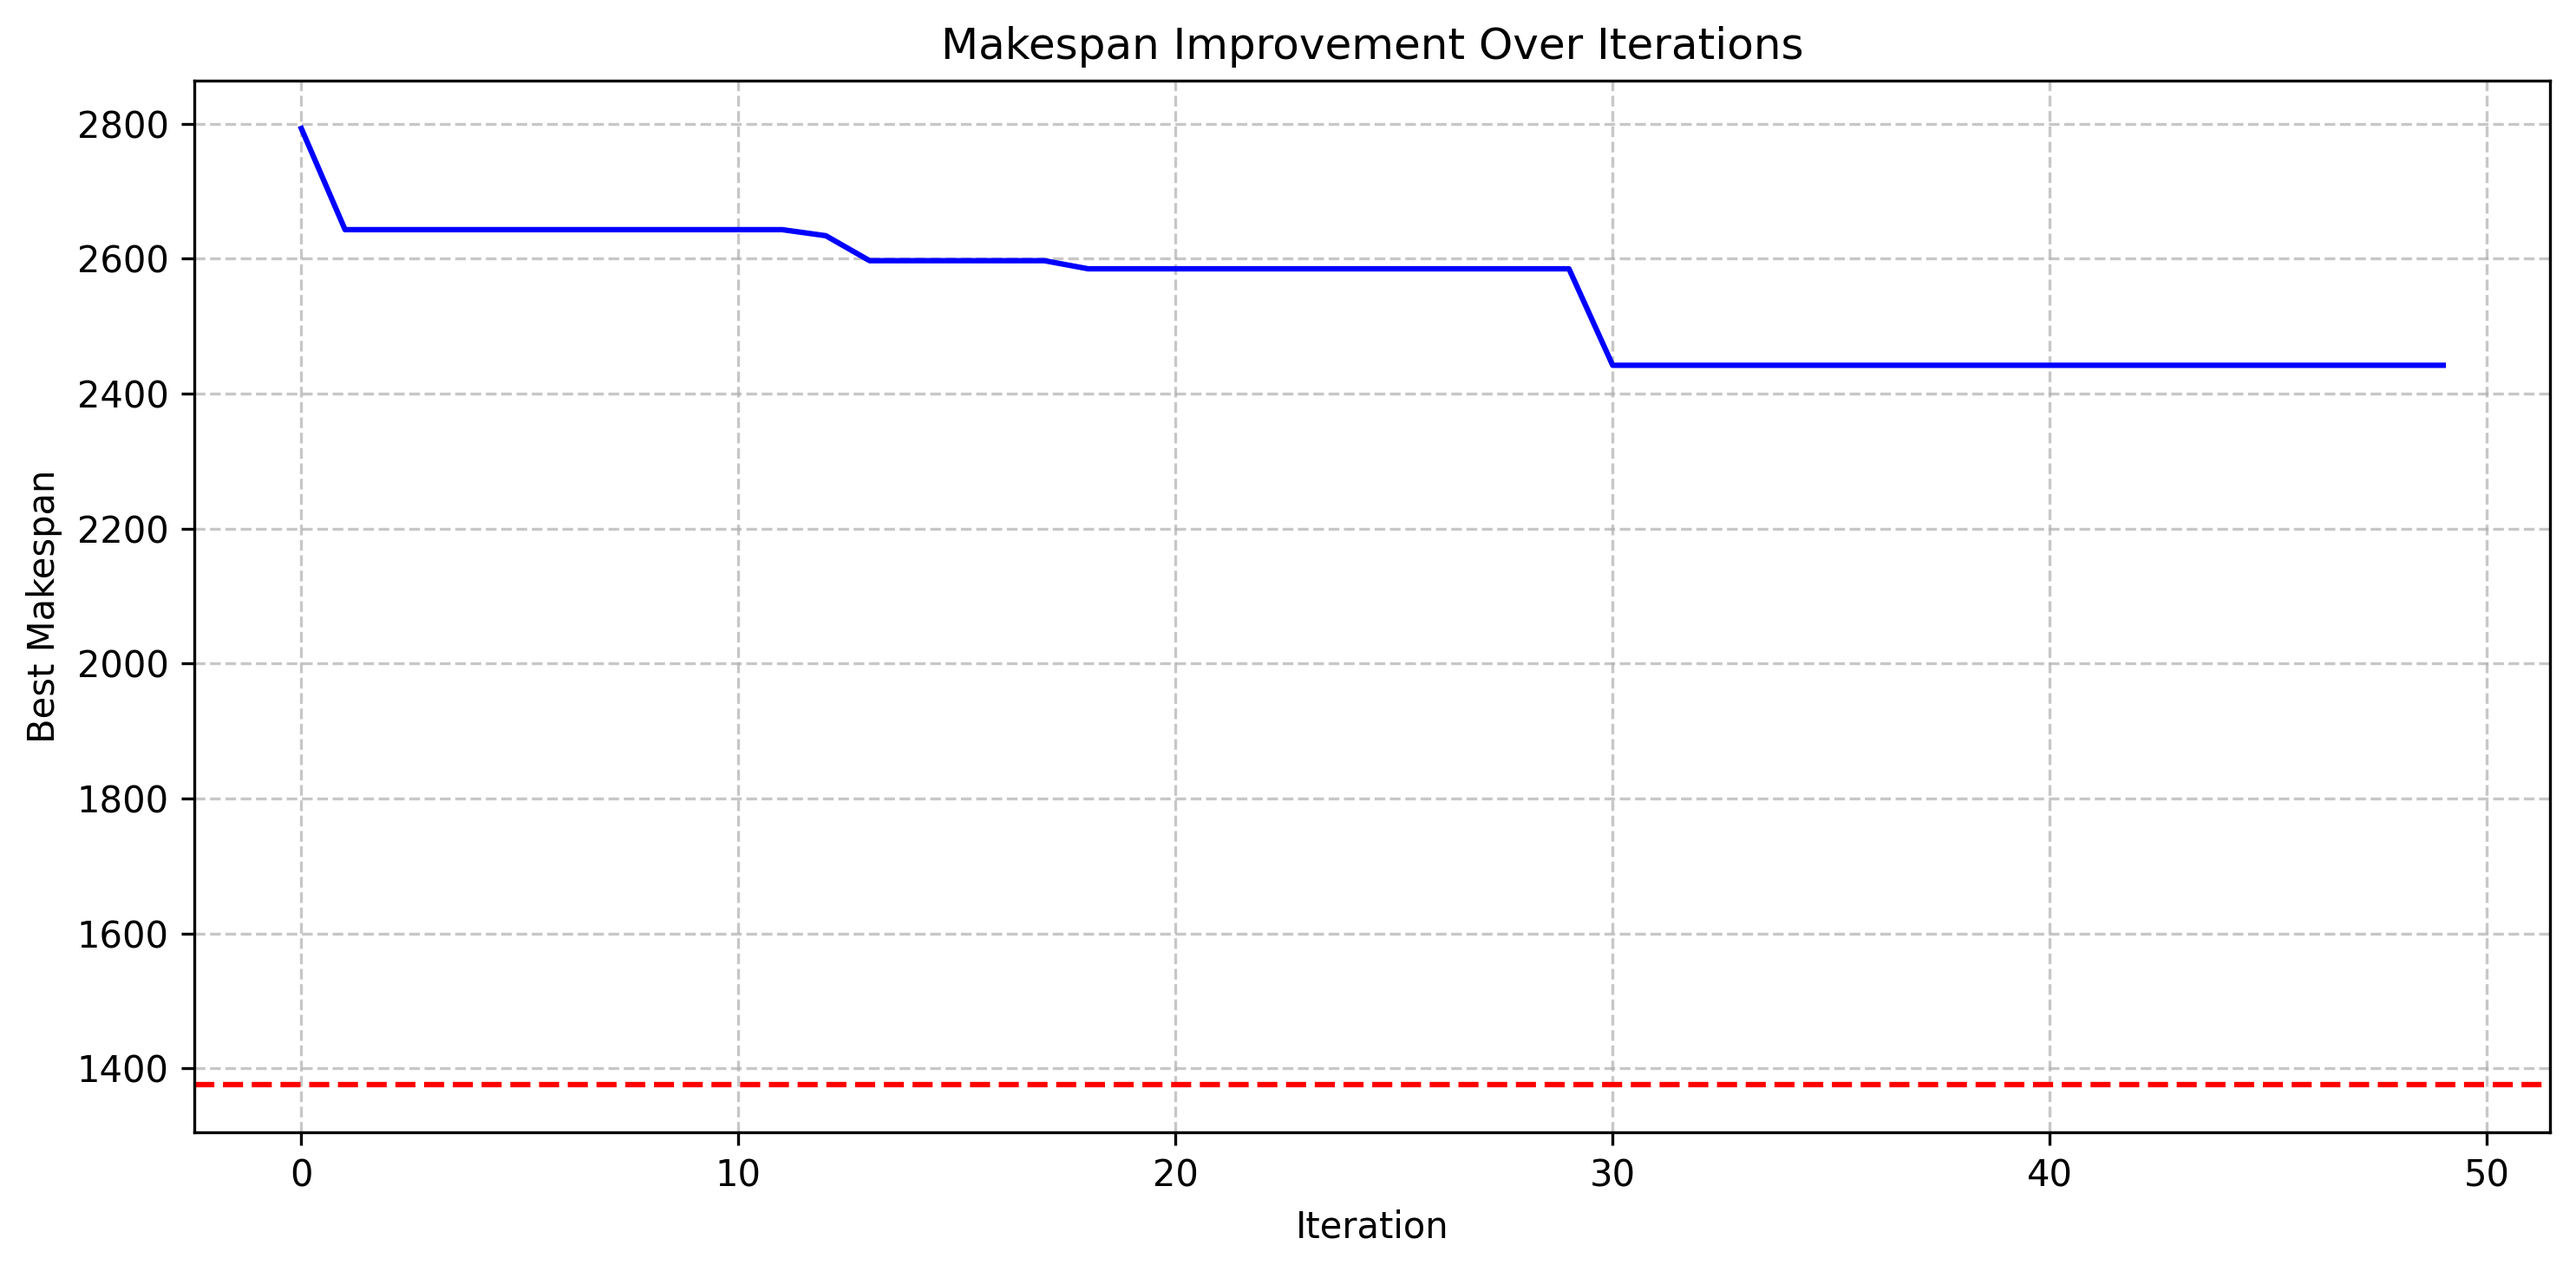
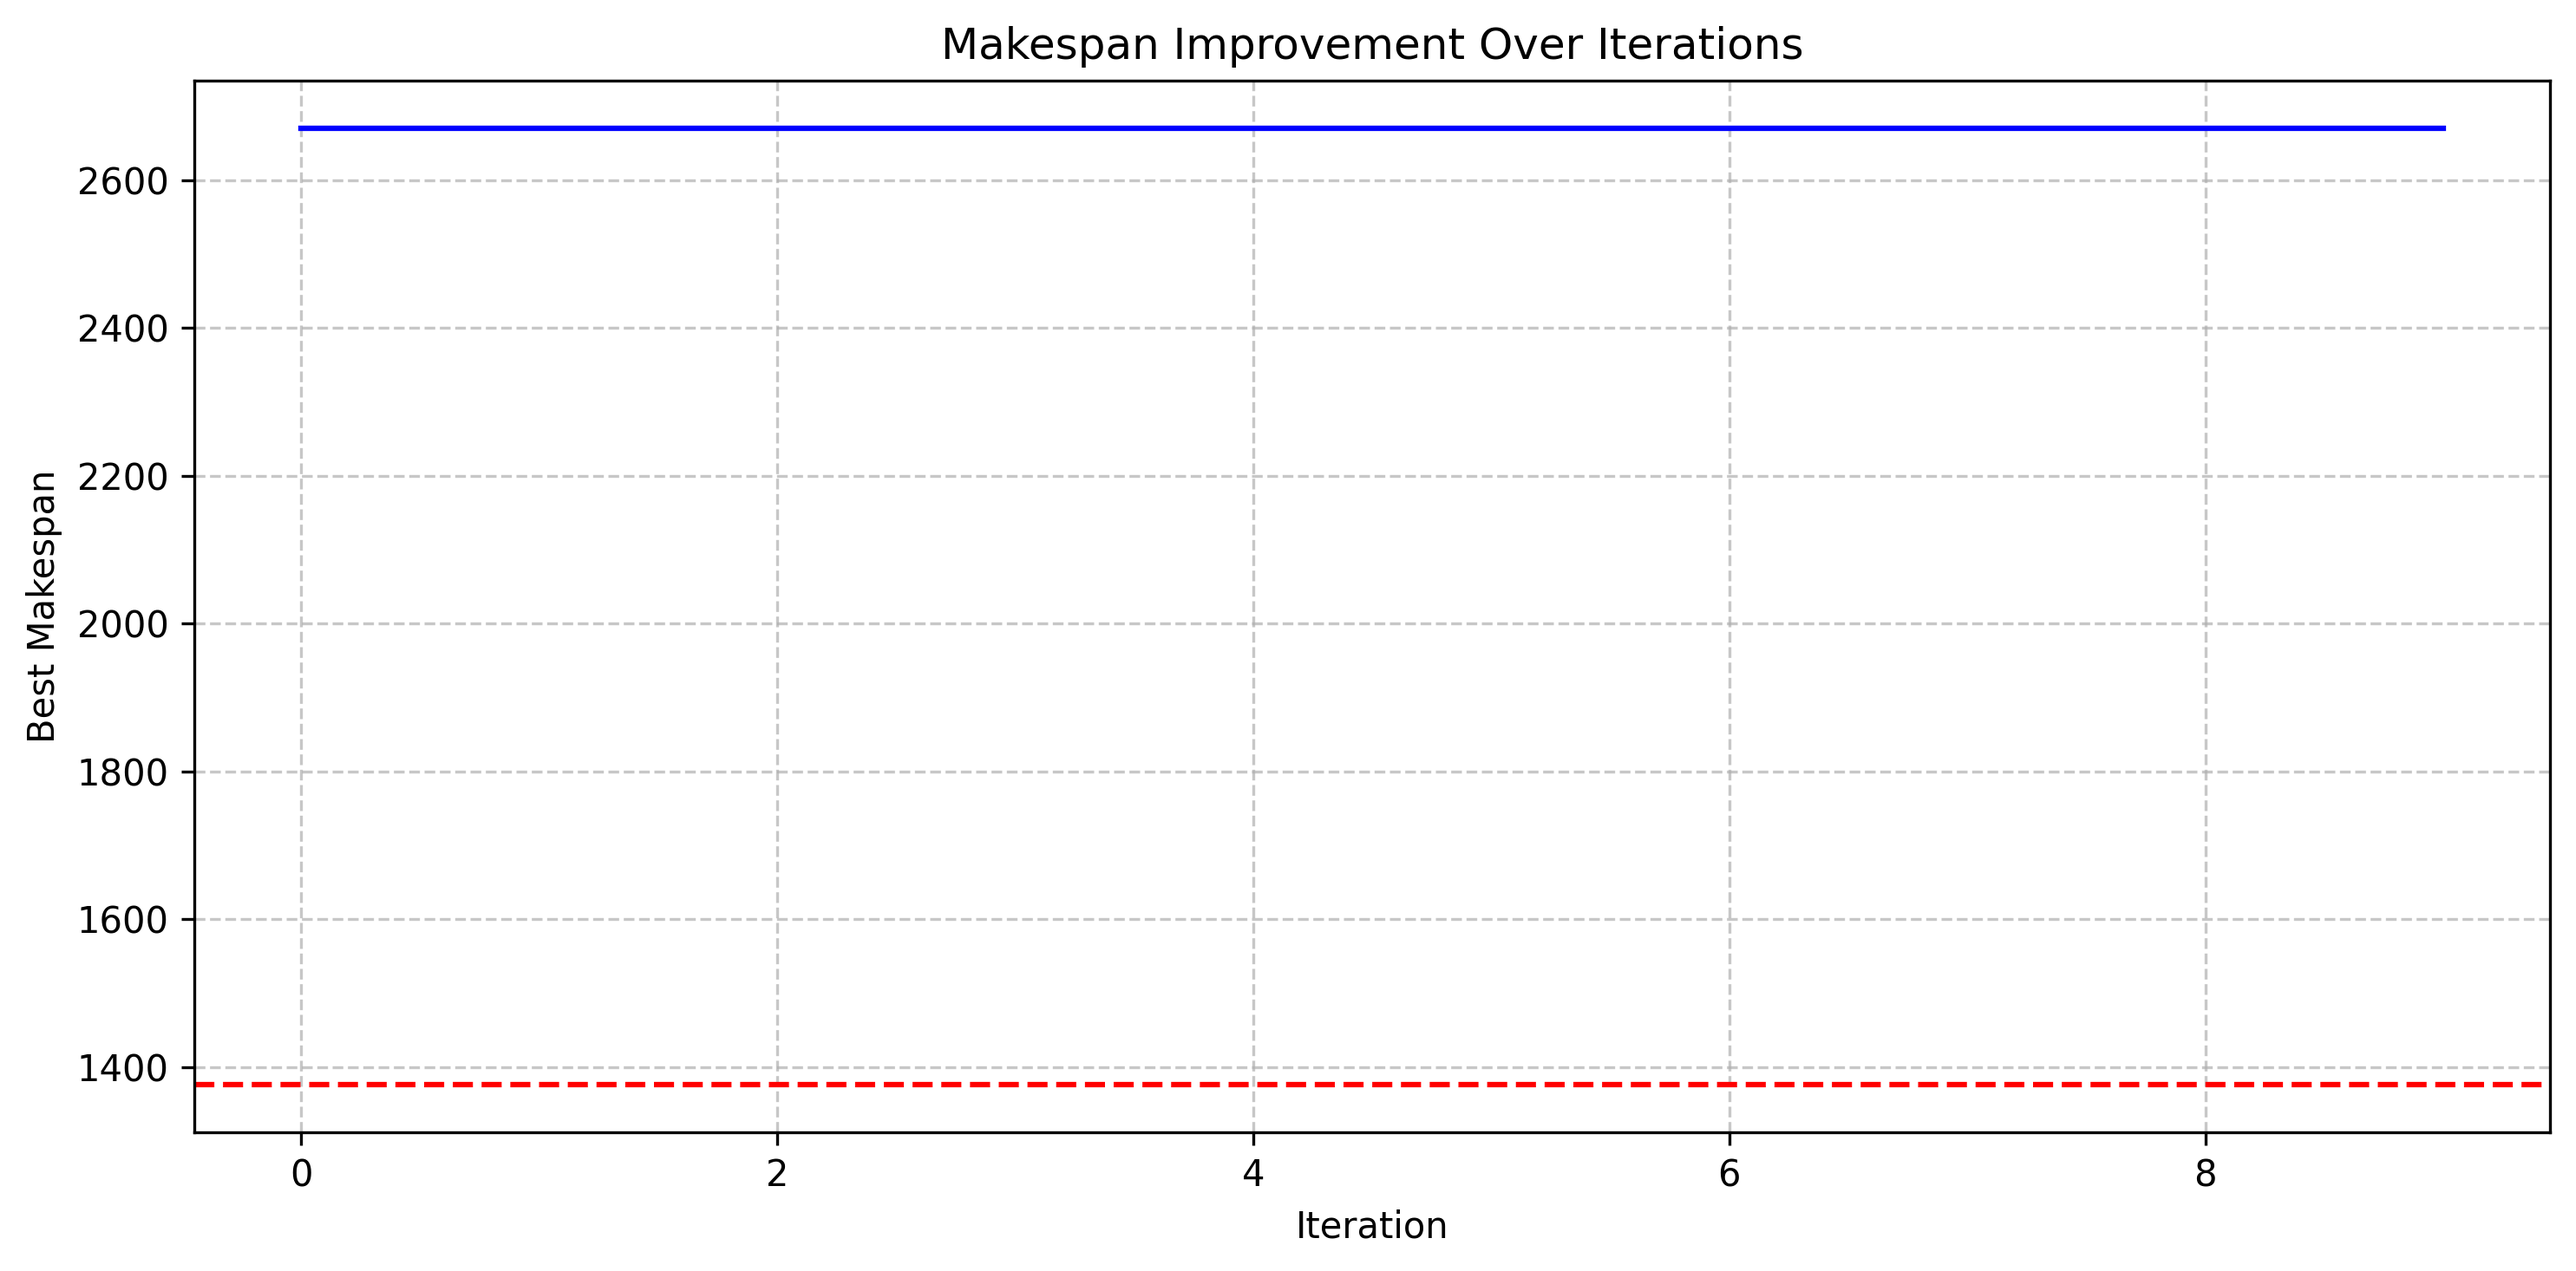
Revert "Merge pull request #4 from sarahmoussaoui/sarah-pso2"
This reverts commit 7d684a052f7f1f270f44c3de4cbd4628f6d3a3c0, reversing
changes made to 23d19f1c818fe59d13bb822f7a5d2b6ab3aef024.

diff --git a/src/modules/pso.py b/src/modules/pso.py
@@ -13,7 +13,7 @@ class PSOOptimizer:
         self.iteration_history = []
         self.makespan_history = []
 
-    def generate_random_initial_sequence(self) -> List[Tuple[int, int]]:
+    def generate_initial_sequence(self) -> List[Tuple[int, int]]:
         """Generates a valid initial sequence preserving operation order within jobs."""
 
         remaining_ops = deepcopy(self.jssp.job_machine_dict)
@@ -27,42 +27,6 @@ class PSOOptimizer:
             sequence.append((job, op_idx))
 
         return sequence
-    
-
-    def generate_spt_initial_sequence(self) -> List[Tuple[int, int]]:
-        """ Generates an initial sequence using Shortest Processing Time (SPT) rule.
-        Prioritizes operations with the shortest processing times while preserving job operation order.
-        """
-        
-        # Create a list of all operations with their job, op index, and processing time
-        all_ops = []
-        for job_idx in self.jssp.job_machine_dict:
-            for op_idx in range(len(self.jssp.job_machine_dict[job_idx])):
-                processing_time = self.jssp.times_matrix[job_idx][op_idx]
-                all_ops.append((job_idx, op_idx, processing_time))
-        
-        # Sort operations by processing time (shortest first)
-        all_ops.sort(key=lambda x: x[2])
-        
-        # Initialize tracking of next operation needed for each job
-        next_op_for_job = {job_idx: 0 for job_idx in self.jssp.job_machine_dict}
-        sequence = []
-        
-        # Build the sequence while respecting operation order within jobs
-        for job_idx, op_idx, _ in all_ops:
-            # Only add if it's the next required operation for its job
-            if op_idx == next_op_for_job[job_idx]:
-                sequence.append((job_idx, op_idx))
-                next_op_for_job[job_idx] += 1
-        
-        # Add any remaining operations that couldn't be added in SPT order
-        # (due to operation ordering constraints)
-        for job_idx in next_op_for_job:
-            while next_op_for_job[job_idx] < len(self.jssp.job_machine_dict[job_idx]):
-                sequence.append((job_idx, next_op_for_job[job_idx]))
-                next_op_for_job[job_idx] += 1
-        
-        return sequence
 
     def optimize(
         self,
@@ -71,20 +35,15 @@ class PSOOptimizer:
         w: float = 0.7,
         c1: float = 1.5,
         c2: float = 1.5,
-        use_spt=False
     ):
         """Run the PSO optimization."""
         particles = []
         global_best_position = None
         global_best_fitness = float("inf")
 
-        for _ in range(num_particles):
-            if use_spt and _ == 0:  # Use SPT for the first particle
-                sequence = self.generate_spt_initial_sequence()
-            else:
-                sequence = self.generate_random_initial_sequence()
+        for _ in range(num_particles): # Creates swarm with random valid sequences
+            sequence = self.generate_initial_sequence()
             particles.append(Particle(sequence, self.jssp.job_machine_dict))
-
 
         for iteration in range(max_iter):
             # Evaluation phase

diff --git a/main.py b/main.py
@@ -2,9 +2,12 @@ import os
 from src.modules.jsspProcessor import JSSPProcessor
 
 if __name__ == "__main__":
+    dataset_folder = "./src/data/processed/data_20j_15m"
 
-    dataset_path = "./src/data/processed/data_20j_15m/data_20j_15m_1.txt"  # Replace with your dataset path
-    processor = JSSPProcessor(dataset_path)
-    best_schedule, best_makespan, exec_time = processor.run(
-        num_particles=10, max_iter=50, w=0.7, c1=2.0, c2=1.0, use_spt=True
-     )
+    for filename in os.listdir(dataset_folder):
+        if filename.endswith(".txt"):
+            dataset_path = os.path.join(dataset_folder, filename)
+            processor = JSSPProcessor(dataset_path)
+            best_schedule, best_makespan, exec_time = processor.run(
+                num_particles=100, max_iter=200, w=0.9, c1=0.7, c2=2
+            )

diff --git a/dfs_amelioré.py b/dfs_amelioré.py
@@ -1,7 +1,7 @@
 import numpy as np  
 from copy import deepcopy  
 import time 
-from src.modules.modelisation import Operation, Job, JSSP  
+from modelisation import Operation, Job, JSSP  
 
 class JSSPSolverDFS:
     def __init__(self, jssp_instance):

diff --git a/src/modules/jsspProcessor.py b/src/modules/jsspProcessor.py
@@ -27,7 +27,6 @@ class JSSPProcessor:
         w: float = 0.7,
         c1: float = 1.5,
         c2: float = 1.5,
-        use_spt: bool = False
     ):
         with open(self.dataset_path, "r") as file:
             dataset_str = file.read()
